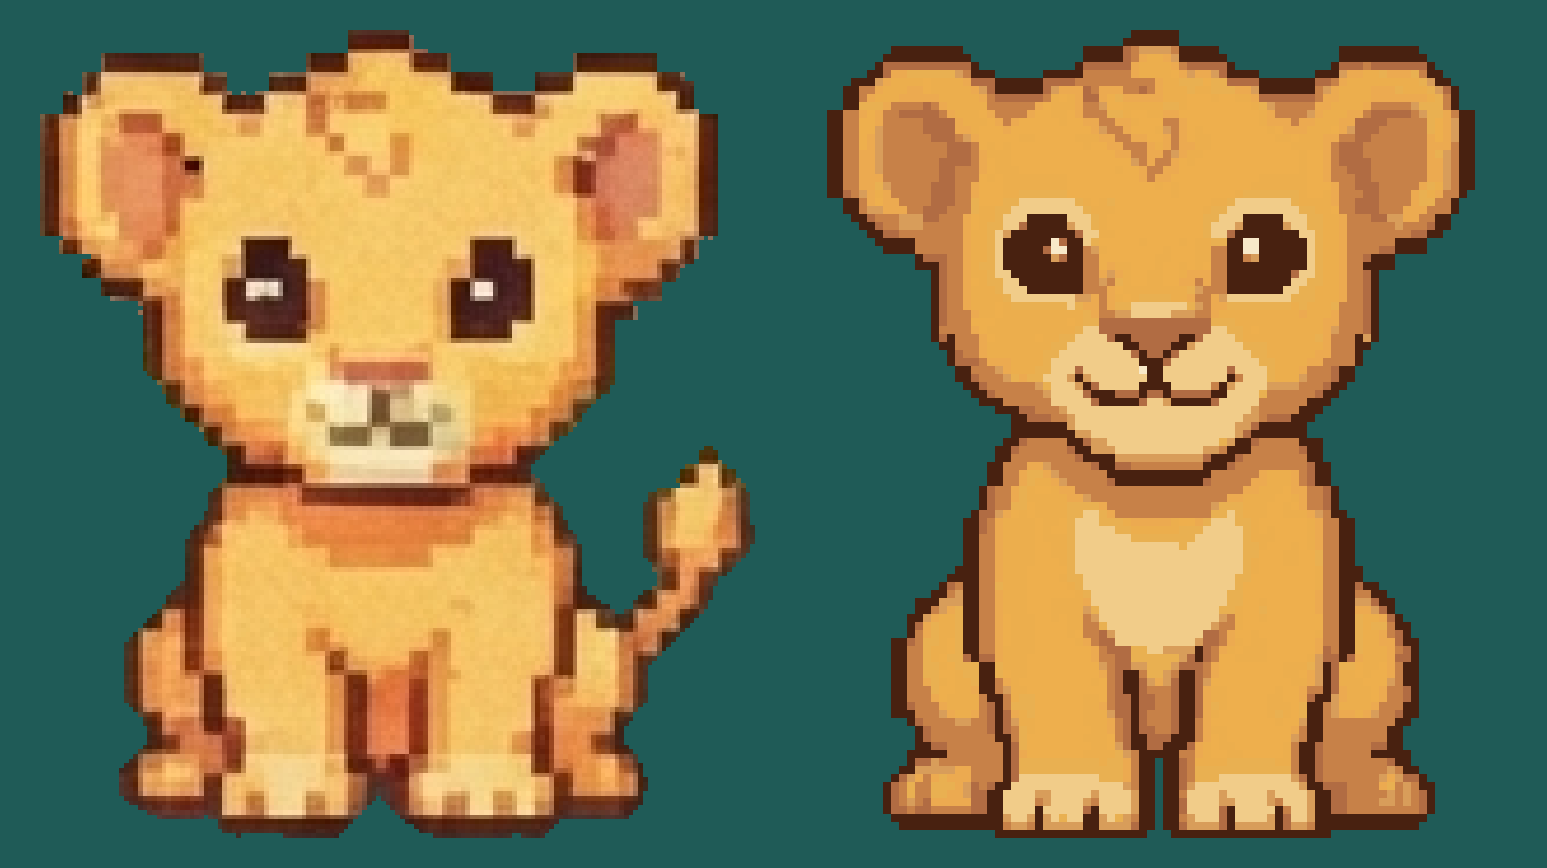
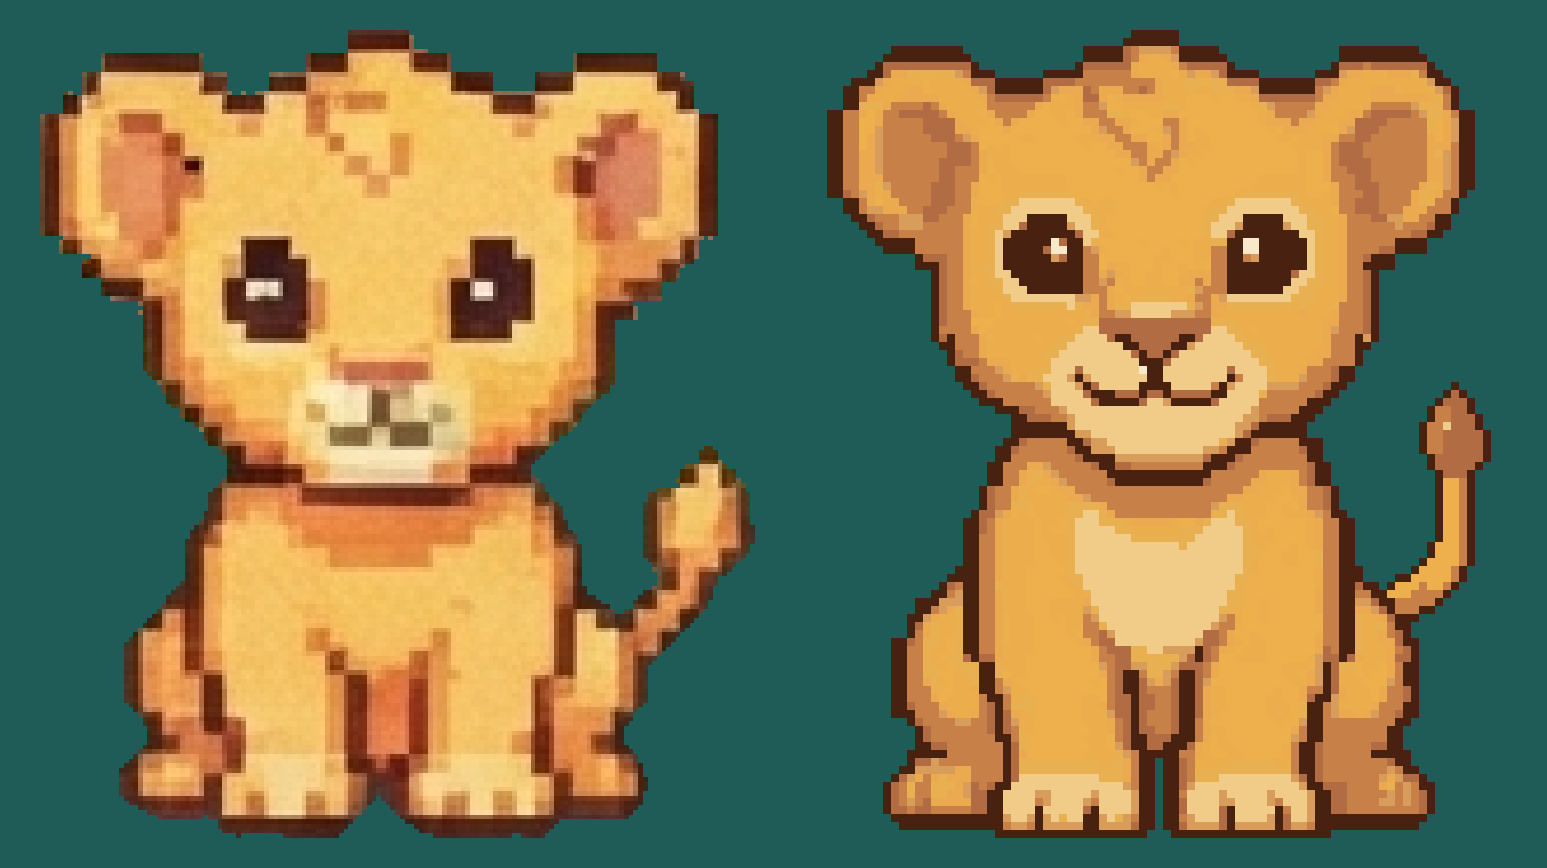
Give the draft lion his tail back

Changed region(s): [[0.8998, 0.4355, 0.9619, 0.7154]]

diff --git a/scripts/todah-from-sheet.py b/scripts/todah-from-sheet.py
@@ -55,21 +55,114 @@ def cut_out(img):
             continue
         clear[y][x] = True
         queue.extend(((x + 1, y), (x - 1, y), (x, y + 1), (x, y - 1)))
-    # The fringe: JPEG leaves a smear just outside the outline, tan next to the background and
-    # paler behind it. It is at most two pixels deep, so it is peeled in two steps and no more:
-    # first anything lighter than the outline's browns that touches the background, then only
-    # the pale pixels that the first step uncovered. The outline's own dark and mid browns stop it.
-    touches = lambda x, y: any(
-        0 <= x + dx < w and 0 <= y + dy < h and clear[y + dy][x + dx] for dx, dy in ((1, 0), (-1, 0), (0, 1), (0, -1))
-    )
-    removed = 0
-    for limit in (400, 560):
-        fringe = [(x, y) for y in range(h) for x in range(w) if not clear[y][x] and sum(p[x, y]) >= limit and touches(x, y)]
-        removed += len(fringe)
-        for x, y in fringe:
-            clear[y][x] = True
-    print(f'fringe pixels peeled: {removed}')
     return clear
+
+
+STEPS = ((1, 0), (-1, 0), (0, 1), (0, -1))
+
+
+def outline(lion):
+    """Leaves nothing outside the dark outline, and no gap in it.
+
+    JPEG smears a pale-to-tan fringe just outside the line, and here and there the line itself
+    came through brown instead of dark. Working from the edge inwards:
+    - a patch of fringe that the dark line already separates from the lion is removed whole,
+    - where a lighter pixel is all that stands between the lion's inside and the background,
+      it is part of the line that lost its colour, so it is made dark,
+    - a loose strand that hangs off such a pixel is removed.
+    It repeats until only dark pixels face the background.
+    """
+    w, h = lion.size
+    px = lion.load()
+    ink = min((px[x, y] for y in range(h) for x in range(w) if px[x, y][3]), key=lambda c: sum(c[:3]))
+    solid = lambda x, y: 0 <= x < w and 0 <= y < h and px[x, y][3] > 0
+    dark = lambda x, y: sum(px[x, y][:3]) < 200
+    removed = sealed = 0
+    while True:
+        # How far each pixel is from the background, counted in steps.
+        depth = {}
+        ring = [(x, y) for y in range(h) for x in range(w) if solid(x, y) and any(not solid(x + dx, y + dy) for dx, dy in STEPS)]
+        level = 1
+        while ring:
+            for spot in ring:
+                depth[spot] = level
+            ring = list({(x + dx, y + dy) for x, y in ring for dx, dy in STEPS if solid(x + dx, y + dy) and (x + dx, y + dy) not in depth})
+            level += 1
+        facing = [(x, y) for (x, y), d in depth.items() if d == 1 and not dark(x, y)]
+        if not facing:
+            break
+        # Patches of lighter pixels joined edge to edge.
+        patch_of, patches = {}, []
+        for start in ((x, y) for y in range(h) for x in range(w) if solid(x, y) and not dark(x, y)):
+            if start in patch_of:
+                continue
+            patch, queue = [], [start]
+            patch_of[start] = len(patches)
+            while queue:
+                x, y = queue.pop()
+                patch.append((x, y))
+                for dx, dy in STEPS:
+                    nxt = (x + dx, y + dy)
+                    if solid(*nxt) and not dark(*nxt) and nxt not in patch_of:
+                        patch_of[nxt] = len(patches)
+                        queue.append(nxt)
+            patches.append(patch)
+        # A patch that reaches well inside is part of the lion. One that does not is fringe.
+        inside = [any(depth[spot] >= 4 for spot in patch) for patch in patches]
+        for x, y in facing:
+            if not inside[patch_of[(x, y)]]:
+                px[x, y] = (0, 0, 0, 0)
+                removed += 1
+            elif any(solid(x + dx, y + dy) and not dark(x + dx, y + dy) and depth[(x + dx, y + dy)] > 1 for dx, dy in STEPS):
+                px[x, y] = ink
+                sealed += 1
+            else:
+                px[x, y] = (0, 0, 0, 0)
+                removed += 1
+    print(f'outline: {removed} pixels shaved off outside it, {sealed} gaps in it closed')
+
+
+def tail(canvas):
+    """Gives him his tail back. The sheet's cub was drawn without one.
+
+    It comes up from behind his right hip and ends in a darker tuft beside his shoulder, where
+    the first Todah carried his. It is painted only on empty pixels, so his body stays in
+    front of it, and it gets the same dark outline as the rest of him.
+    """
+    px = canvas.load()
+    w, h = canvas.size
+    shades = sorted({px[x, y] for y in range(h) for x in range(w) if px[x, y][3]}, key=lambda c: sum(c[:3]))
+    ink, tuft, shade, fur, light = shades[0], shades[1], shades[2], shades[-3], shades[-2]
+    empty = lambda x, y: 0 <= x < w and 0 <= y < h and px[x, y][3] == 0
+    painted = set()
+
+    def dab(x, y, colour):
+        if empty(x, y) or (x, y) in painted:
+            px[x, y] = colour
+            painted.add((x, y))
+
+    # The tail itself: a curve three pixels thick, lit on the upper side.
+    start, bend, end = (70.0, 72.0), (84.0, 71.0), (82.0, 57.0)
+    for step in range(81):
+        t = step / 80
+        cx = (1 - t) ** 2 * start[0] + 2 * (1 - t) * t * bend[0] + t ** 2 * end[0]
+        cy = (1 - t) ** 2 * start[1] + 2 * (1 - t) * t * bend[1] + t ** 2 * end[1]
+        for dx in (-1, 0, 1):
+            for dy in (-1, 0, 1):
+                dab(round(cx) + dx, round(cy) + dy, shade if (dx == 1 and t > 0.45) or (dy == 1 and t <= 0.45) else fur)
+
+    # The tuft: a flame shape leaning a little outward, darker than his coat.
+    rows = {-7: (0, 0), -6: (-1, 1), -5: (-2, 1), -4: (-2, 2), -3: (-3, 2), -2: (-3, 3), -1: (-3, 3), 0: (-3, 3), 1: (-2, 3), 2: (-2, 2), 3: (-1, 1)}
+    tx, ty = 82, 52
+    for dy, (left, right) in rows.items():
+        for dx in range(left, right + 1):
+            dab(tx + dx, ty + dy, shade if dx <= left + 1 and -5 <= dy <= 0 else tuft)
+    dab(tx - 1, ty - 3, light)
+
+    # The outline: any empty pixel that touches the new tail.
+    for x, y in [(x + dx, y + dy) for x, y in painted for dx, dy in STEPS]:
+        if empty(x, y):
+            px[x, y] = ink
 
 
 def main(sheet_path, out_path):
@@ -87,6 +180,8 @@ def main(sheet_path, out_path):
             if not clear[y][x]:
                 dst[x, y] = src[x, y] + (255,)
     lion = lion.crop(lion.getbbox())
+    outline(lion)
+    lion = lion.crop(lion.getbbox())
 
     # A lone dark pixel with no dark neighbour is a smear, not a line.
     px = lion.load()
@@ -101,6 +196,7 @@ def main(sheet_path, out_path):
 
     canvas = Image.new('RGBA', CANVAS, (0, 0, 0, 0))
     canvas.alpha_composite(lion, ((CANVAS[0] - lion.width) // 2, CANVAS[1] - lion.height))
+    tail(canvas)
     canvas.save(out_path)
     print(f'{out_path}: lion {lion.width}x{lion.height} on {CANVAS[0]}x{CANVAS[1]}, {len(lion.getcolors(9999)) - 1} colours')
 

diff --git a/docs/design/nano-banana-prompts.md b/docs/design/nano-banana-prompts.md
@@ -53,7 +53,7 @@ Cells 5 to 11 are the same cub redrawn in a new pose, at the same size on the sh
 10. Body still side-on facing right, head turned to look straight at the viewer.
 11. Three-quarter view: turning toward the viewer and lowering into a sit.
 12. No change. An exact copy.
-In the side views he has a tail with a darker tuft. Keep his head the same size in every cell.
+He has a tail with a darker tuft in every view. Keep his head the same size in every cell.
 ```
 
 ## Sheet 2: the wardrobe we have, redrawn (`wardrobe-a.png`)
